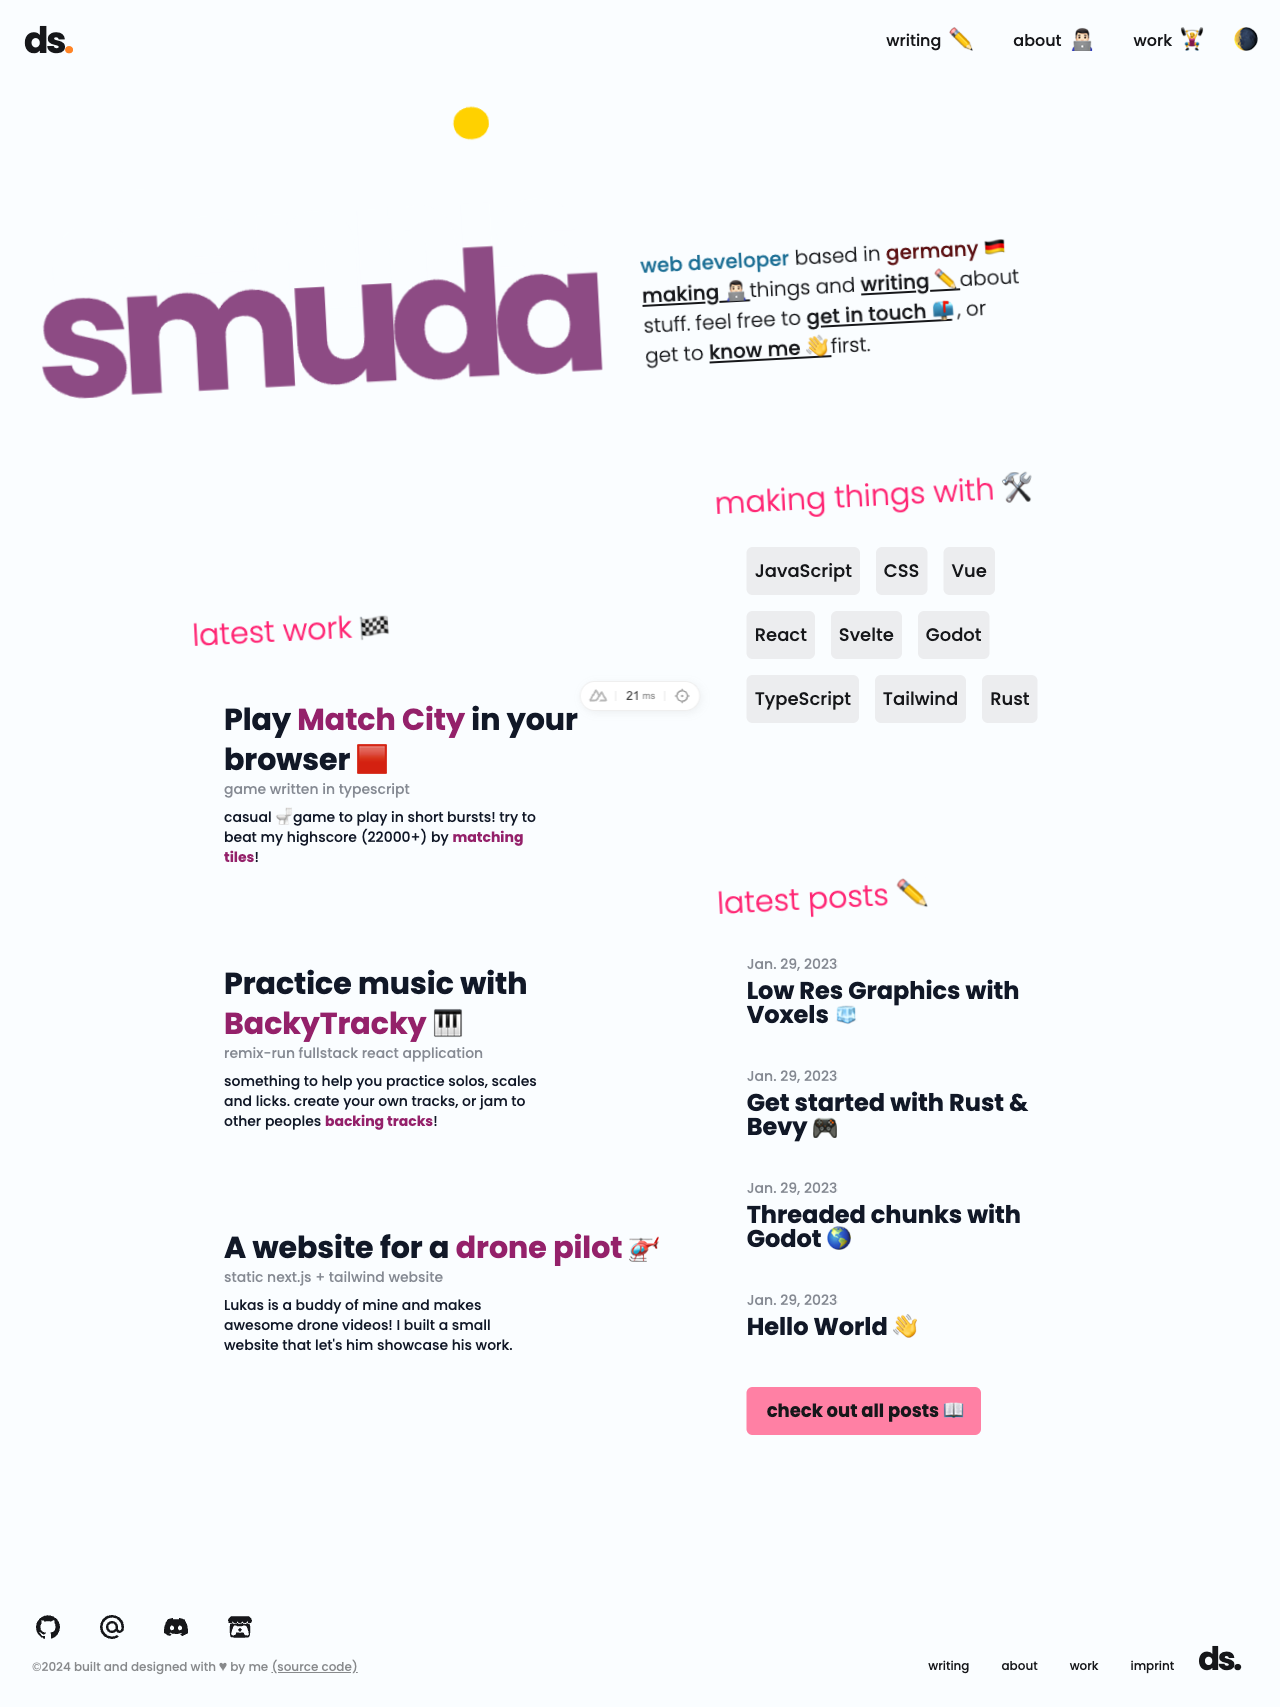
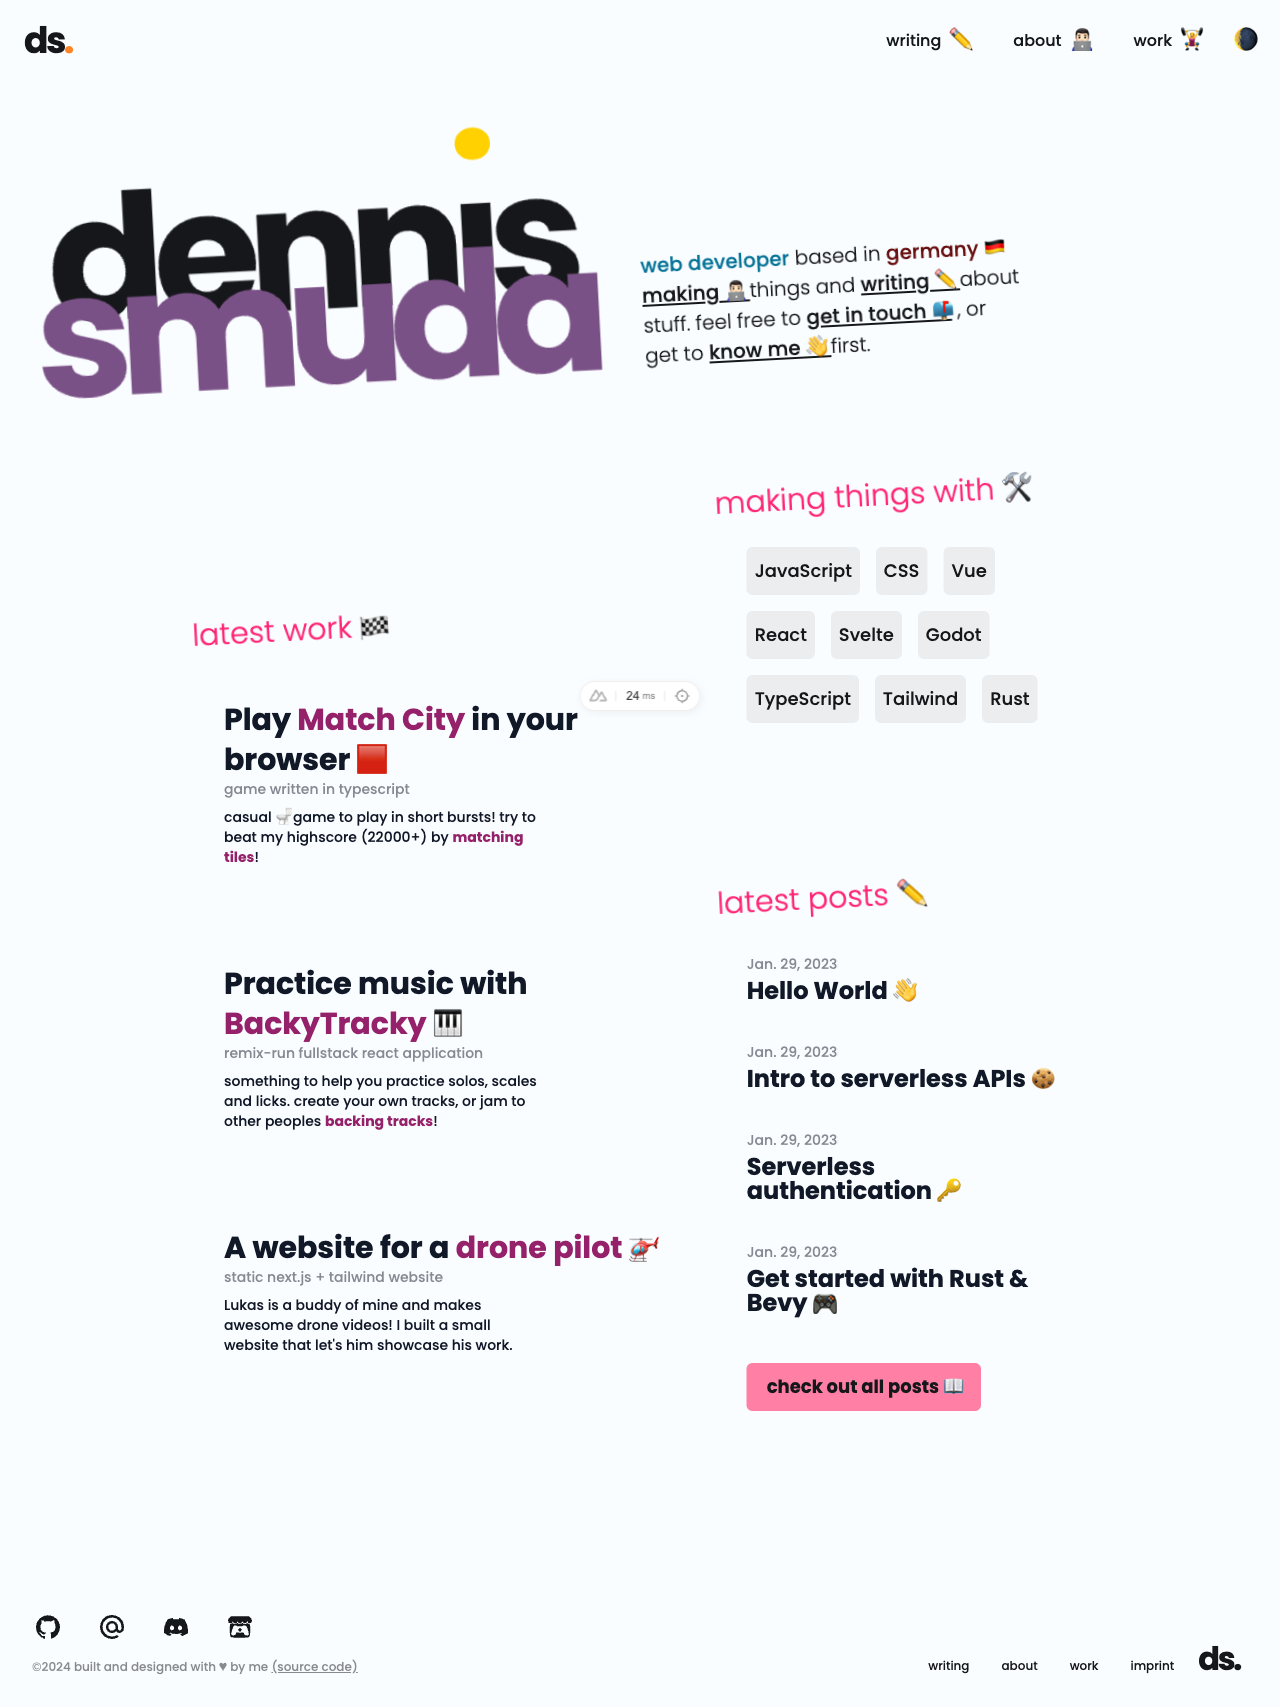
chore: hero light mode fix

Changed region(s): [[0.5625, 0.5589, 0.8438, 0.8383], [0.0312, 0.0621, 0.4688, 0.1863]]

diff --git a/features/name/Letter.vue b/features/name/Letter.vue
@@ -4,7 +4,6 @@ import { useSpring } from 'vue-use-spring'
 interface LetterProps {
   path: string
   delay: number
-  color?: string
   animateColor?: boolean
   initialX?: number
   initialY?: number
@@ -13,7 +12,6 @@ const props = withDefaults(defineProps<LetterProps>(), {
   initialX: 0,
   initialY: 100,
   animateColor: false,
-  color: '#FAFDFF',
 })
 
 const position = useSpring({ x: props.initialX, y: props.initialY, opacity: 0 })
@@ -28,10 +26,10 @@ setTimeout(() => {
 
 <template>
   <path
+    class="fill-black dark:fill-white"
     :class="{ animate: props.animateColor }"
     :style="{ transform: `translate3d(${position.x}px, ${position.y}px, 0px)`, opacity: position.opacity }"
     :d="path"
-    :fill="color"
   />
 </template>
 
